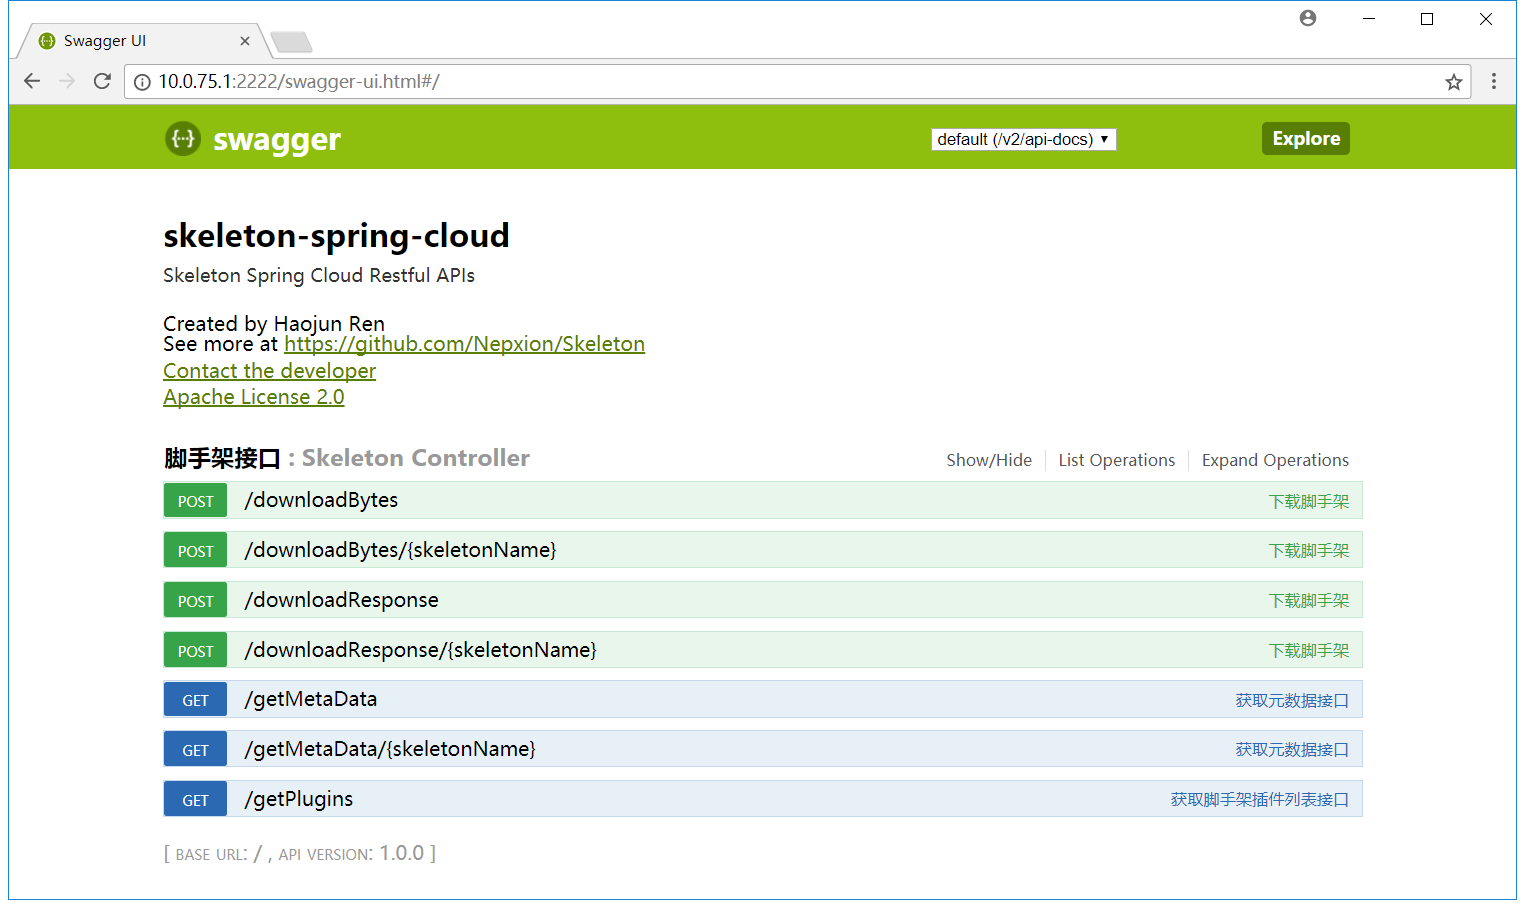
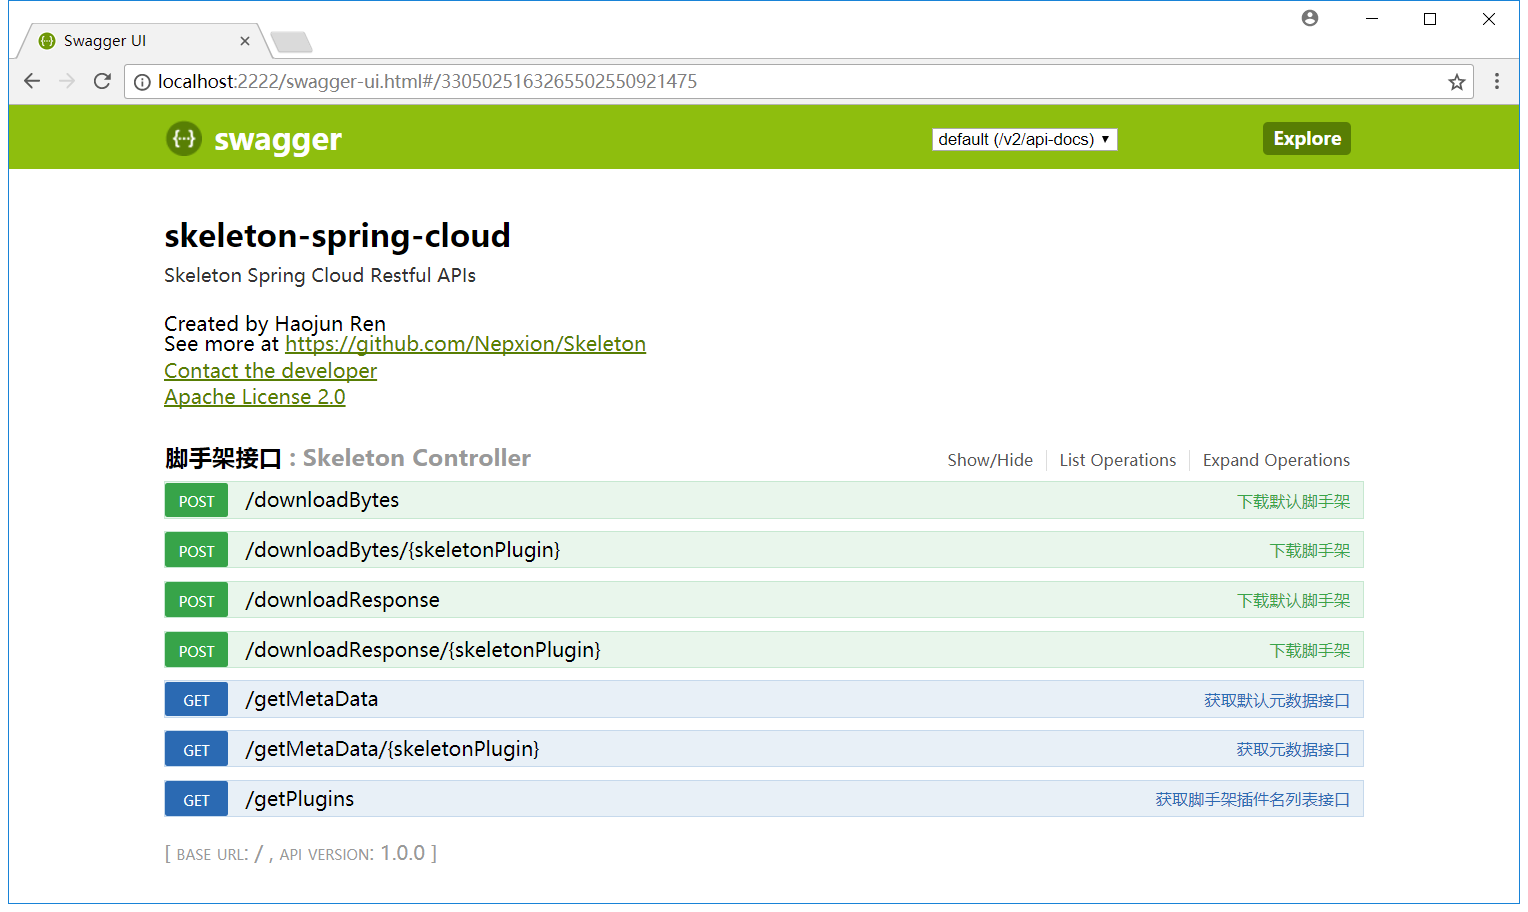
修改介绍

diff --git a/README.md b/README.md
@@ -99,6 +99,20 @@ Nepxion Skeleton是一款基于FreeMarker的对任何文本格式的代码和文
 ![Alt text](https://github.com/Nepxion/Skeleton/blob/master/skeleton-doc/Template1.jpg)
 ![Alt text](https://github.com/Nepxion/Skeleton/blob/master/skeleton-doc/Template2.jpg)
 
+### 插件
+
+    1. 采用插件式部署方式，多个脚手架系统部署在同一个平台上。需要采用独立工程的方式，同时避免同名类和同名配置文件冲突，规定如下，见图6
+       1.1 工程名应该是xxx-plugin-[插件名]
+       1.2 包名应该是xx.xx.xx...plugin.[插件名]
+       1.3 配置文件目录应该是resources/[插件名]，下面放config和template
+       1.4 脚手架总入口(实现SkeletonService)，上面加注解@SkeletonPlugin(name="[插件名]")
+       1.5 上述四个插件名必须统一，在本项目中，我们知道插件名叫“springcloud”。按照这种规则，我们可以扩展出多个脚手架插件，例如skeleton-plugin-dubbo，skeleton-plugin-motan等
+       1.6 插件名，将被SkeletonController接口中用到，见“Spring Cloud接口”章节
+
+图6
+
+![Alt text](https://github.com/Nepxion/Skeleton/blob/master/skeleton-doc/Plugin1.jpg)
+
 ### 示例
 
 #### 本地使用方式
